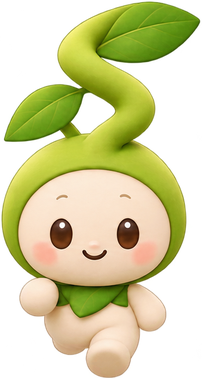
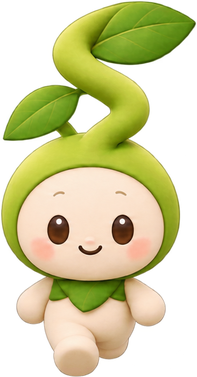
feat: 正面の歩行を再生成版に差し替え（左右交互になる組だけを使用）

diff --git a/scripts/build-spru-walk.py b/scripts/build-spru-walk.py
@@ -17,7 +17,13 @@ from PIL import Image
 SRC = sys.argv[1] if len(sys.argv) > 1 else '/mnt/c/Users/katsu/SmartSprouts/rooms/Spra/Mascot/01_Spru/walk'
 OUT = os.path.join(os.path.dirname(__file__), '..', 'public', 'assets', 'spru-walk')
 MANIFEST = os.path.join(os.path.dirname(__file__), '..', 'src', 'game', 'spru-walk.json')  # コードから読むため src 側に置く
-SHEETS = {'down': '植物スプライトのランニングポーズ集.png', 'up': '歩く緑の芽っ子バックビュー4コマ.png'}
+# 向き: (シート, 歩きの順, 立ちのコマ, 大きさをそろえる基準のコマ)
+SHEETS = {
+    # 正面（2026-11-09 再生成版）。全コマが歩きのポーズで、左足前が3コマ続く。手足の組が正しい3・4コマ目と中立の2コマ目だけで左右交互にしている（1コマ目は未使用）。立ちは2コマ目。
+    'down': ('スプラウトキャラクターの歩行アニメーション_strip.png', [2, 1, 3, 1], 1, 1),
+    # 後ろ姿。0コマ目が立ち、1=左足, 2=両足そろう, 3=右足。
+    'up': ('歩く緑の芽っ子バックビュー4コマ.png', [1, 2, 3, 2], 0, 2),
+}
 DIAGONALS = {'dr': 'lower_right', 'dl': 'lower_left', 'ur': 'upper_right', 'ul': 'upper_left'}
 ALPHA_MIN = 24  # これ以下の薄い縁は、大きさの測定に使わない
 PAD = 2
@@ -61,13 +67,13 @@ def main():
         # 0=passing（立ち）, 1=step_l, 2=step_r。歩きは 左→立ち→右→立ち。
         save(key, union_crop(frames), [1, 0, 2, 0], 0, manifest)
     ref_height = reference[3] - reference[1]
-    for key, sheet in SHEETS.items():
+    for key, (sheet, cycle, idle, ref) in SHEETS.items():
         frames = split_sheet(os.path.join(SRC, sheet))
-        # 0=立ち, 1〜3=歩き。passing 相当のコマ（2）の高さを斜めの passing にそろえる。
-        scale = ref_height / (visible_bbox(frames[2])[3] - visible_bbox(frames[2])[1])
+        # 基準のコマの高さを、斜めの passing にそろえる。
+        scale = ref_height / (visible_bbox(frames[ref])[3] - visible_bbox(frames[ref])[1])
         cropped = union_crop(frames)
         scaled = [f.resize((round(f.width * scale), round(f.height * scale)), Image.LANCZOS) for f in cropped]
-        save(key, scaled, [1, 2, 3, 2], 0, manifest)
+        save(key, scaled, cycle, idle, manifest)
         print(f'{key}: scale {scale:.3f}')
     manifest['referenceHeight'] = ref_height
     with open(MANIFEST, 'w', encoding='utf-8') as fh:

diff --git a/README.md b/README.md
@@ -31,5 +31,5 @@
 - 向き: 入力を60度ずつ6領域（下・上・右下・左下・右上・左上）に分けて切り替える（src/game/facing.ts）。止まると最後の向きの立ち絵。開始時は奥（上）向き。
 - 足の動きは、実際に進んだ距離（歩幅）で進める。壁に押しつけても足は動かない。
 - 画像: 斜め4方向は Mascot の walk 画像、真正面・真後ろは同フォルダの4コマ横並びシートを、scripts/build-spru-walk.py で切り出して public/assets/spru-walk/ に書き出す（原本は無加工。大きさは斜めの立ち絵にそろえる）。再生成: python3 scripts/build-spru-walk.py（Pillow必要）
-- 既知の課題: 正面の歩行コマ(1〜3)は、同じ足ばかり前に出ている（左右交互になっていない）。正面を再生成したら、スクリプトを再実行すれば差し替わる。
+- 既知の課題: 正面の再生成版も、左足前が3コマ続き左右交互になっていない（確認用レビューで判明）。暫定で、手足の組が正しい2コマと中立コマだけを使って交互にしている。理想は「左足前＋右腕上／中立／右足前＋左腕上／中立」の4コマ＋直立の立ち絵。再生成したら、スクリプトのシート名と歩きの順を直して再実行する。縁にごく薄い黄緑のにじみ・足元の小さな点があるため、再生成時に透明背景の書き出しを依頼する。
 - 6方向の見た目確認: scripts/walk-shots.mjs（開発サーバー起動中に実行、test-results/ に出力）
